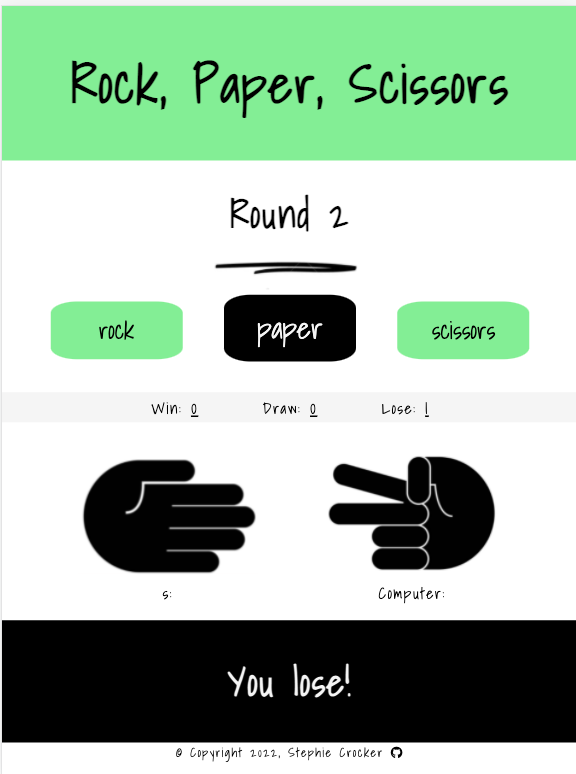
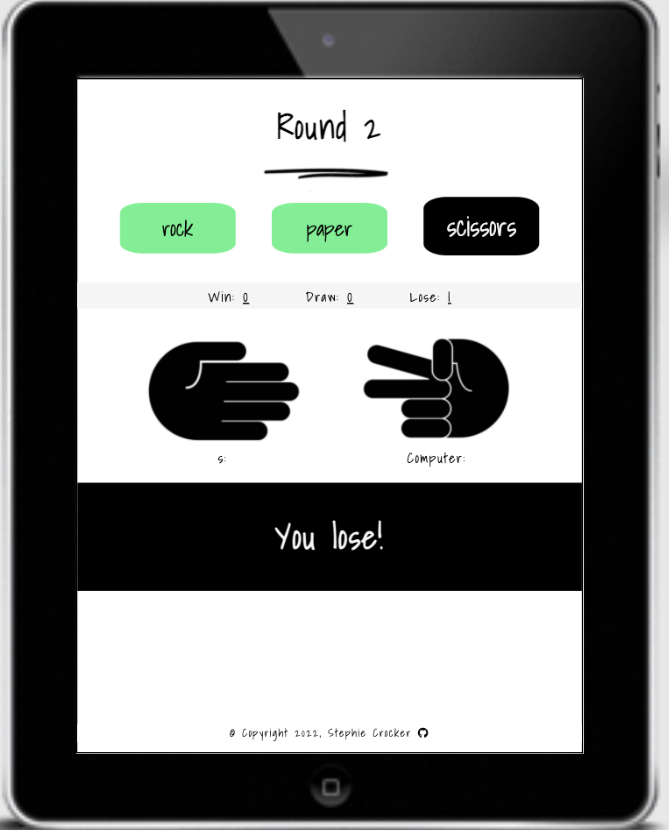
Updated readme file with final changes after removing header display during game rounds

diff --git a/assets/js/script.js b/assets/js/script.js
@@ -167,7 +167,6 @@ function updateLose() {
     (document.getElementById("score-area")).style.display = "block"; 
     (document.getElementById("game-over-modal")).style.display = "block";
     (document.getElementById("round-1-rocks")).style.display = "block";  
-    gameOverResult();
  }
 
    

diff --git a/README.md b/README.md
@@ -14,7 +14,7 @@ ABOUT THE WEBSITE:
 
 _Rock, Paper, Scissors_ is an online game of the classic Rock, Paper, Scissors. The computer will generate its random choices and your job is to simply beat that big mean machine in a series of 5 rounds! Let's rock!
 
-<img src="assets/images/i-am-responsive.png" width="500px">
+<img src="assets/images/am-i-responsive.png" width="500px">
 
 * * * 
 
@@ -88,7 +88,7 @@ The initial homepage consists of:
 * A small form where the Player will be required to submit their name. The form will not submit without this information. The submit button is styled in the same colors as the header and it reads "Let's rock!".
 
 
-<img src="assets/images/mobile-launch-display.png" width="500px">
+<img src="assets/images/mobile-launch-display.png" width="200px">
 
 * * * 
   
@@ -102,7 +102,7 @@ When clicking "let's rock!" in the initial form, you are taken to the initial pl
 * Rock, Paper and Scissors interactive buttons. These are styled in the same bright bold colors, fun font, and are displayed clearly in the centre of the page.
 
 
-<img src="assets/images/mobile-round1-display.png" width="500px">
+<img src="assets/images/mobile-round1-display.png" width="200px">
 
  
 
@@ -121,7 +121,7 @@ After the user selecting their first choice of Rock, Paper or Scissors, they are
 *   A div containing the previous rounds result: An short alert message displaying previous round result: You win!, You lose!, or You draw!
 
 
-<img src="assets/images/mobile-playround-display.png" width="500px">
+<img src="assets/images/mobile-playround-display.png" width="200px">
   
 * * * 
 
@@ -132,10 +132,11 @@ After the user selecting their first choice of Rock, Paper or Scissors, they are
 After the user has selected their final choice in Round 5, they are redirected to the Game Over Modal. This displays:
 
 * A div clearly displaying the Game tally of win, lose, and draw. The score is underlined.
+* The initial two rock symbols facing each other (as on round 1).
 * Final Alert message displaying the game result: You win! You lose! You draw! 
 * A Refresh button to restart the game. It is styled in the same way as the previous buttons. Clicking this button will trigger a function resetting the game back to _launch-game-modal_
 
-<img src="assets/images/mobile-gameover-display.png" width="500px">
+<img src="assets/images/mobile-gameover-display.png" width="200px">
 
 
 
@@ -153,6 +154,7 @@ After the user has selected their final choice in Round 5, they are redirected t
 
 <img src="./assets/images/wireframe-large-display.png" width="1000px">
 
+As seen above, I initially wanted the header Rock paper Scissors displayed throughout the entire game. I decided to rmeove it from the game rounds, as I wanted to make sure that the user would NEVER have to scroll down for their result. Removing the header allowed me to maintain the font and buttons large enough and user friendly.
 
 
 * * * 
@@ -210,30 +212,30 @@ FEATURES:
     * Player name input form (required)
     * Submit button labelled "Let's Rock!"
 
-  <img src="assets/images/mobile-launch-display.png" width="500px"> 
+  <img src="assets/images/tablet-launch-display.png" width="500px"> 
 
 *   Play Round Modal: which loads once the user has submitted the form. The form takes the players name and uses it below.
-    * Same header
     * Round number
     * 3 clickable buttons labelled: Rock, Paper and Scissors.
     * A tally of the score to show the user what will be counted for: _Win:0, Draw:0, Lose:0_
     * 2 ROCK images facing each other
 
- <img src="assets/images/mobile-round1-display.png" width="500px"> 
+ <img src="assets/images/tablet-round1-display.png" width="500px"> 
 
-*   As from Round 2... the same as above, plus...
+*   As from Round 2... same as above, plus...
     * The round number will update itself each round!
     * A tally of the current score (which will update round after round): For example: _Win: 0 Draw: 1 Lose: 2_
     * A black box with the outcome of the previous play: For example: _You Draw!_
 
- <img src="assets/images/mobile-playround-display.png" width="500px"> 
+ <img src="assets/images/tablet-playround-display.png" width="500px"> 
 
 * After the final Round 5...
     * The final score tally.
+    * The initial two rock symbols facing each other (as on round 1).
     * The final game result. For example: _Congratulations, you win!_
     * A Refresh button, to play again! (This takes the user back to the start)
 
-<img src="assets/images/mobile-gameover-display.png" width="500px"> 
+<img src="assets/images/tablet-gameover-display.png" width="500px"> 
 
 * * * 
 
@@ -241,6 +243,7 @@ FEATURES:
 
 * I would love to include some animation with the hand images such as: visual clash of computer and user hands as one beats the other.
 * I would like to change the layout so that the selection buttons, start game button and play again button are all in the exact same place on the page display. I think this would allow for an easier flow of the game.
+* Ideally I would like to always have the Header displaying game title on top. This was my initial plan, but considering my deadline and having prioritised the javascript side of this project, I decided it was more important for me to remove any need for the user to scroll down. Removing the header in these Round sections was the easiest way to achieve this.
 
 * * * 
 
@@ -339,9 +342,9 @@ During this testing I did notice a big problem with the end result! This is expl
 * The initial form is of an appropriate size, and easily clickable to input the field text and click the submit button.
 * During the 5 game rounds the following features remained displayed in the same position: Round number, selection buttons, score tally, user-image and computer-image hands, and the round result.
 
-<img src="assets/images/mobile-launch-display.png" width="400px">
-<img src="assets/images/mobile-playround-display.png" width="400px">
-<img src="assets/images/mobile-gameover-display.png" width="400px">
+<img src="assets/images/mobile-launch-display.png" width="200px">
+<img src="assets/images/mobile-playround-display.png" width="200px">
+<img src="assets/images/mobile-gameover-display.png" width="200px">
 * * * 
 
 ##### Tablet Display 
@@ -382,6 +385,9 @@ During this testing I did notice a big problem with the end result! This is expl
 What was happening was that the result for Round 4 was being read to come up with the final answer. Upon getting assistance from the Code Institute mentors, we discovered that there the easiest option would be to switch the order of the functions run within the playRound(e) function. We would instead place updateRound() at the ends of the function. This fixed the issue.
 
 <img src="assets/images/result-error-bug-2.png" width="300px"><img src="assets/images/result-error-bug-3.png" width="300px">
+
+* I noticed that during the Game rounds, the user was having to scroll down to see their result. For this reason, I decided to remove the header (Rock paper Scissors title) from the display (between rounds 1 and 5). I initially tried to change the font and button sizes, but I thought it all looked a bit too crowded. Due to deadlines, removing the header seemed to be the best way to solve this problem (for now.. I will be working on this in the future)!
+
 
 
 
@@ -479,7 +485,7 @@ CREDITS:
 * A couple of the code institute tutors helped me with some issues I was having. 
     * My gameOver function was getting quite heavy and becoming problematic particularly in displaying block and none. A tutor at code institute recommended I  use the an onload instead. This made things run much smoothly. [Page Onload](https://www.w3schools.com/jsref/event_onload.asp).
     * When I encountered the end result bug, I had help from Oisin at Code Institute. He suggested I try to solve it by changing the order of my functions  within the playRound(e) function. We would instead place updateRound() at the ends of the function. This fixed the issue.
-    
+
 
 <img src="assets/images/result-error-bug-2.png" width="300px"><img src="assets/images/result-error-bug-3.png" width="300px">
 
